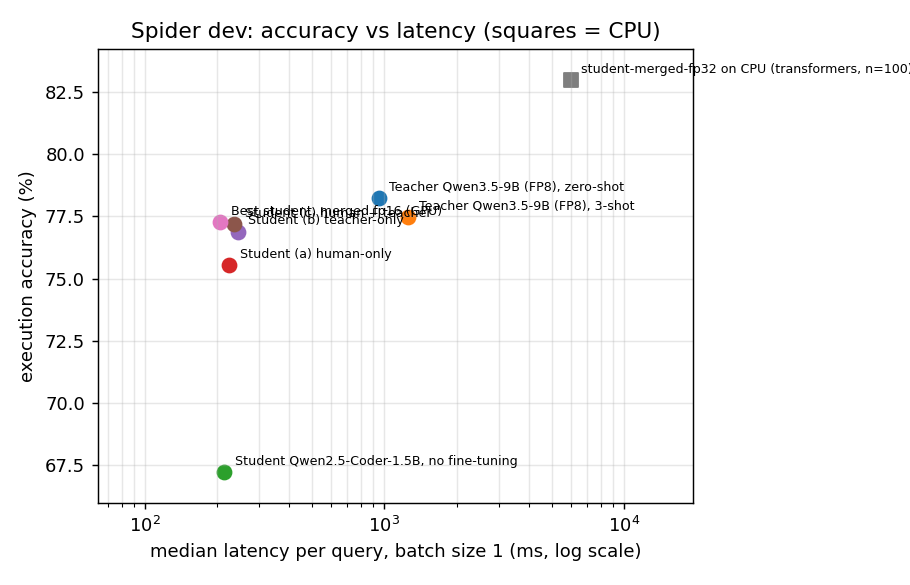
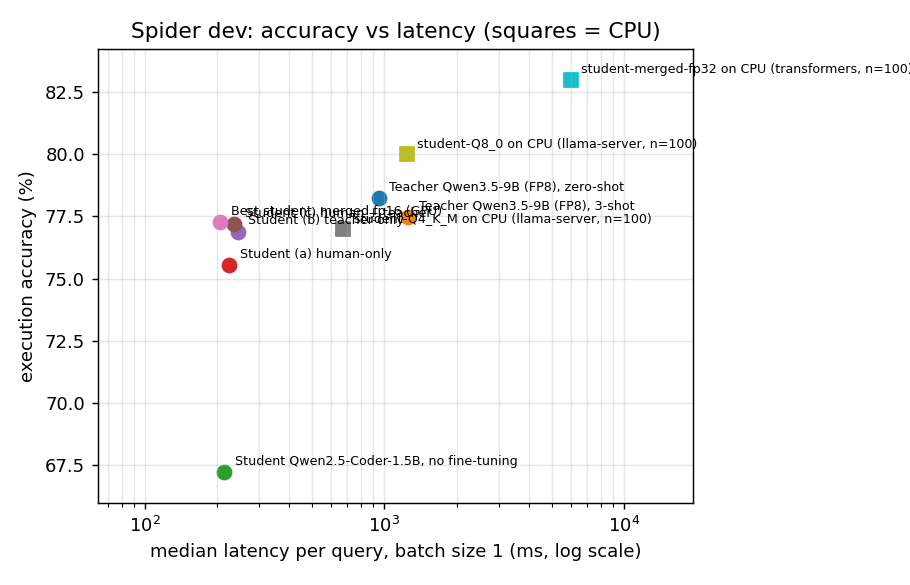
GGUF export, llama.cpp CPU evaluation and results refresh
Builds llama.cpp (CPU-only), exports the merged student to f16/Q8_0/Q4_K_M GGUF and
evaluates Q8_0 and Q4_K_M under llama-server on the first 100 dev questions:
Q4_K_M p50 0.67 s at 0.92 GiB (EX 0.77) vs fp32 transformers 5.98 s (EX 0.83).
The llama-server app backend is checked end to end. CPU subset rows no longer get
teacher-relative columns (different question set and device). Teacher on CPU still not run.

diff --git a/src/sensei_sql/eval/analysis.py b/src/sensei_sql/eval/analysis.py
@@ -65,7 +65,7 @@ def main_table(runs: list[tuple[dict, dict]], ref: dict | None) -> pd.DataFrame:
             "size GiB": eff.get("model_size_gib"),
             "device": eff.get("device", "GPU (RTX 4000 Ada)"),
         }
-        if ref:
+        if ref and row["n"] == ref["num_questions"]:  # CPU subset runs are not comparable to the full GPU teacher run
             ref_acc = ref["accuracy"]["exec_accuracy"]
             row["% of teacher EX"] = 100 * row["EX"] / ref_acc if ref_acc else None
             row["speed-up vs teacher (p50)"] = ref["efficiency"]["latency_ms_p50"] / row["p50 ms"]

diff --git a/README.md b/README.md
@@ -188,7 +188,10 @@ and the app and later evaluations use that model. `verify` regenerates the first
 merged outputs are identical to adapter+base; the 3 that differ only in identifier case or
 spacing and give the same execution result (fp16 merge vs bf16 LoRA rounding). Results are in
 `outputs/export/verify.json`. `gguf` converts the merged model to f16/Q8_0/Q4_K_M GGUF for llama.cpp or
-Ollama, using `third_party/llama.cpp`, which must be cloned and built separately (`cmake -B build && cmake --build build`).
+Ollama, using `third_party/llama.cpp`, which must be cloned and built first:
+`cd third_party/llama.cpp && cmake -B build -DGGML_CUDA=OFF -DLLAMA_CURL=OFF && cmake --build build -j --target llama-quantize llama-server llama-cli`.
+`verify --gguf` also compares each GGUF with the adapter model; the outputs often differ only in case or quote style, so
+judge them by accuracy (`python -m sensei_sql.eval.cpu --backend llama-server --gguf models/student-gguf/student-Q4_K_M.gguf`).
 
 ## Results
 
@@ -211,7 +214,8 @@ Without fine-tuning the student scores 0.672.
 Teacher-generated data matches or beats human labels; more of it keeps helping the teacher-only variant, while
 human + teacher is flat within noise (±1.3 points standard error). 99% of the best student's failures are
 valid SQL that answers a slightly different question; the most common are wrong table/column (34%), wrong
-join (19%) and wrong condition (17%). On CPU (fp32, transformers, i9-14900K) it takes 6.0 s p50 per query.
+join (19%) and wrong condition (17%). On a CPU (i9-14900K, 100 questions) the Q4_K_M GGUF answers in 0.67 s p50 at 0.92 GiB (fp32 transformers: 6.0 s), for
+0.77 EX against 0.83 for fp32 on that subset.
 
 The full tables, plots, error analysis and per-question examples are in [docs/results/](docs/results/results.md);
 the write-up with caveats is [docs/results_draft.md](docs/results_draft.md).
@@ -233,6 +237,5 @@ the evaluation: read-only connection, `SELECT`/`WITH` only (an edited `DELETE` i
 a row cap. If a generated query fails to execute, the error is shown to the model once for a corrected attempt
 (`self_correct` in `configs/app.yaml`).
 
-Checked with the merged student: vLLM on the GPU (~0.2–0.7 s per question), and the transformers backend
-on CPU only. The llama-server and Ollama backends are implemented but untested, because they need the GGUF
-export (see above). Stopping the app (Ctrl-C or SIGTERM) also stops the vLLM engine process.
+Checked with the merged student: vLLM on the GPU (~0.2–0.7 s per question), the transformers backend on CPU,
+and llama-server with the Q4_K_M GGUF. The Ollama backend is implemented but untested. Stopping the app (Ctrl-C or SIGTERM) also stops the vLLM engine process.

diff --git a/docs/results_draft.md b/docs/results_draft.md
@@ -45,12 +45,25 @@ questions it already matches the teacher, and on extra-hard it is slightly ahead
 
 ## CPU
 
-The merged student in fp32 with Hugging Face transformers on an Intel i9-14900K (32 threads) answers
-in **6.0 s p50 / 10.6 s p95** per query (first 100 dev questions, EX 0.83 on that easier-than-average
-subset, which is not comparable to the full-dev numbers). This is an unoptimised baseline. The planned
-comparison with a quantised GGUF model under llama.cpp was not run (it needs a llama.cpp build that
-was not approved on this machine), and the teacher was not run on CPU: a 9B model in fp32/bf16 on
-CPU is impractical for this comparison.
+All on an Intel i9-14900K (32 threads), no GPU, batch size 1, on the first 100 dev questions. These
+100 questions are easier than average (the fp32 model scores 0.83 on them against 0.773 on the full
+set), so the accuracies below are only comparable with each other.
+
+| format | runtime | size | p50 | p95 | EX (n=100) |
+|---|---|---|---|---|---|
+| fp32 | transformers | 2.9 GiB | 5.98 s | 10.6 s | 0.83 |
+| GGUF Q8_0 | llama.cpp | 1.5 GiB | 1.24 s | 5.1 s | 0.80 |
+| **GGUF Q4_K_M** | llama.cpp | **0.9 GiB** | **0.67 s** | 4.9 s | 0.77 |
+
+The Q4_K_M model answers in under a second at the median on a CPU, 8.9× faster than fp32 and 3× smaller
+than fp16 weights, and loses 6 points on this subset (about 1.5 standard errors at n=100, so
+suggestive rather than conclusive). Quantised output often differs from the fp16 model only in
+identifier case or quote style (`"France"` vs `'France'`), but it is not always equivalent: on
+50 questions only 30 (Q8_0) and 24 (Q4_K_M) outputs were textually identical to the adapter model, and
+on the 100-question subset correctness agreed with fp32 on 91 and 86 questions.
+
+The teacher was not run on CPU: a 9B model cannot be compared on this setup without a separate
+quantised build, so there is no CPU speed-up figure against the teacher.
 
 ## Ablation 1: training data source
 
@@ -118,5 +131,5 @@ answer is a single `matches` column). Examples of each group are in `docs/result
 - One training seed per variant and a single benchmark (Spider dev), so small differences are noise.
 - Spider dev databases overlap in style with the training databases; the student has not been
   tested on unseen schema styles or on other benchmarks.
-- The CPU result is an unquantised transformers baseline on 100 questions; there is no GGUF/llama.cpp
-  measurement and no teacher-on-CPU comparison.
+- CPU numbers use 100 questions and one machine; there is no teacher-on-CPU comparison and no
+  laptop-class CPU measurement.

diff --git a/docs/results/results.md b/docs/results/results.md
@@ -11,7 +11,9 @@
 | Student (b) teacher-only | 1034 | 0.769 | 0.911 | 0.834 | 0.713 | 0.440 | 244 | 583 | 42.44 | 7.20 | 2.97 | GPU (RTX 4000 Ada) | 98.3 | 3.9 |
 | Student (c) human + teacher | 1034 | 0.772 | 0.923 | 0.807 | 0.707 | 0.518 | 235 | 623 | 38.95 | 7.20 | 2.97 | GPU (RTX 4000 Ada) | 98.6 | 4.0 |
 | Best student, merged fp16 (GPU) | 1034 | 0.773 | 0.919 | 0.812 | 0.713 | 0.512 | 206 | 550 | 44.08 | 6.52 | 2.89 | GPU (RTX 4000 Ada) | 98.8 | 4.6 |
-| student-merged-fp32 on CPU (transformers, n=100) | 100 | 0.830 | 1.000 | 0.840 | 0.809 | 0.706 | 5984 | 10623 | – | 0.00 | 2.89 | CPU: Intel(R) Core(TM) i9-14900K, 32 threads | 106.1 | 0.2 |
+| student-Q4_K_M on CPU (llama-server, n=100) | 100 | 0.770 | 0.917 | 0.800 | 0.762 | 0.588 | 675 | 4857 | – | 0.00 | 0.92 | CPU: Intel(R) Core(TM) i9-14900K, 32 threads | – | – |
+| student-Q8_0 on CPU (llama-server, n=100) | 100 | 0.800 | 1.000 | 0.840 | 0.714 | 0.647 | 1238 | 5086 | – | 0.00 | 1.53 | CPU: Intel(R) Core(TM) i9-14900K, 32 threads | – | – |
+| student-merged-fp32 on CPU (transformers, n=100) | 100 | 0.830 | 1.000 | 0.840 | 0.809 | 0.706 | 5984 | 10623 | – | 0.00 | 2.89 | CPU: Intel(R) Core(TM) i9-14900K, 32 threads | – | – |
 
 
 ![accuracy vs latency](accuracy_vs_latency.png)
